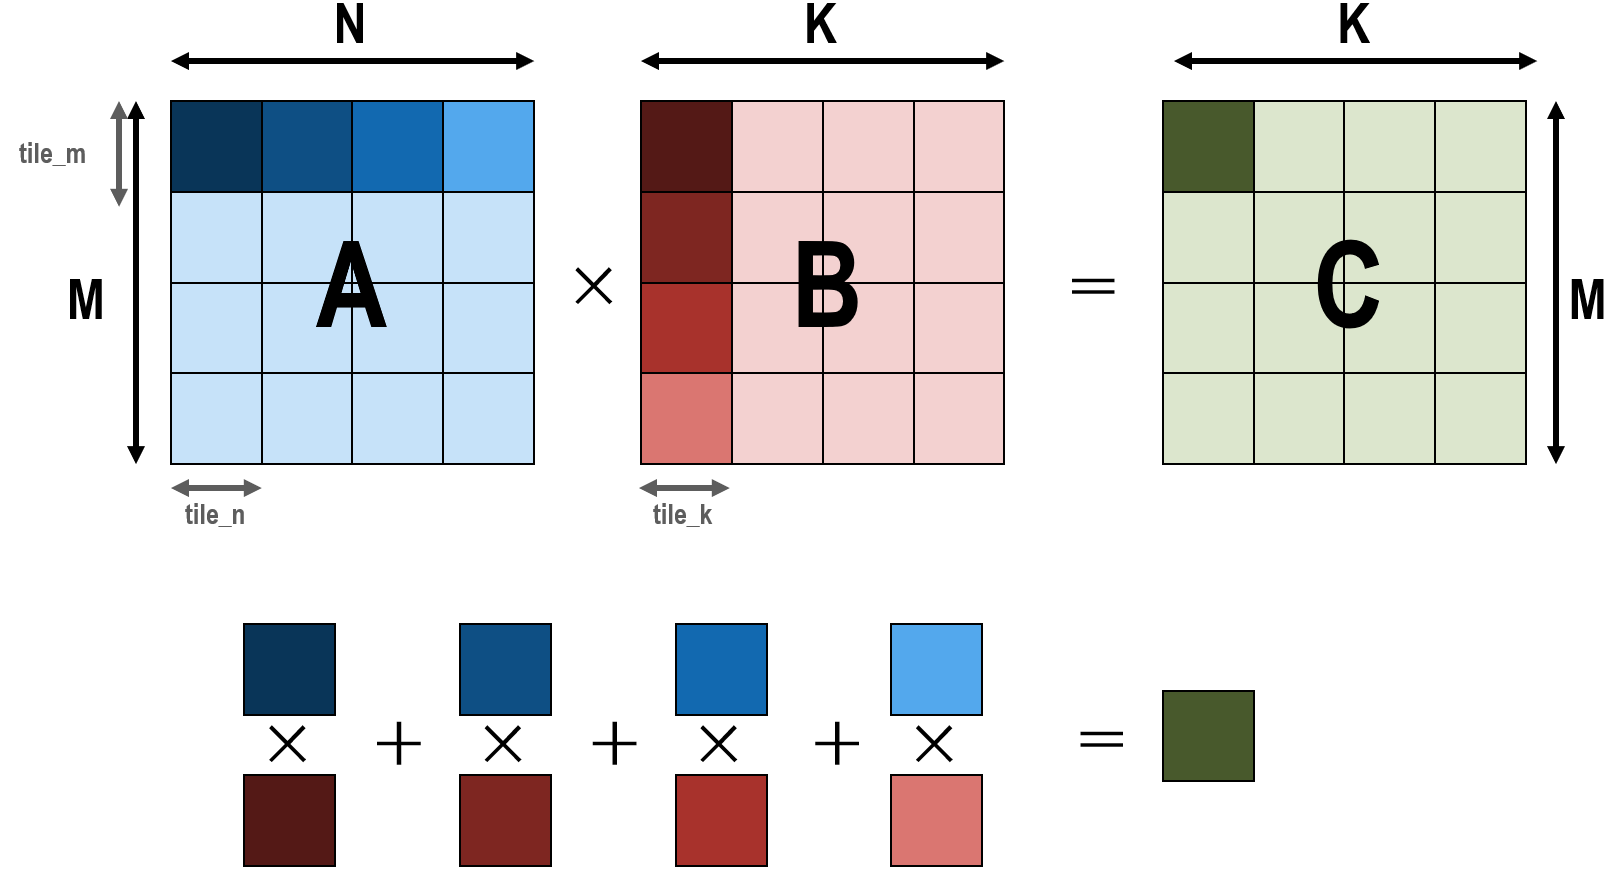
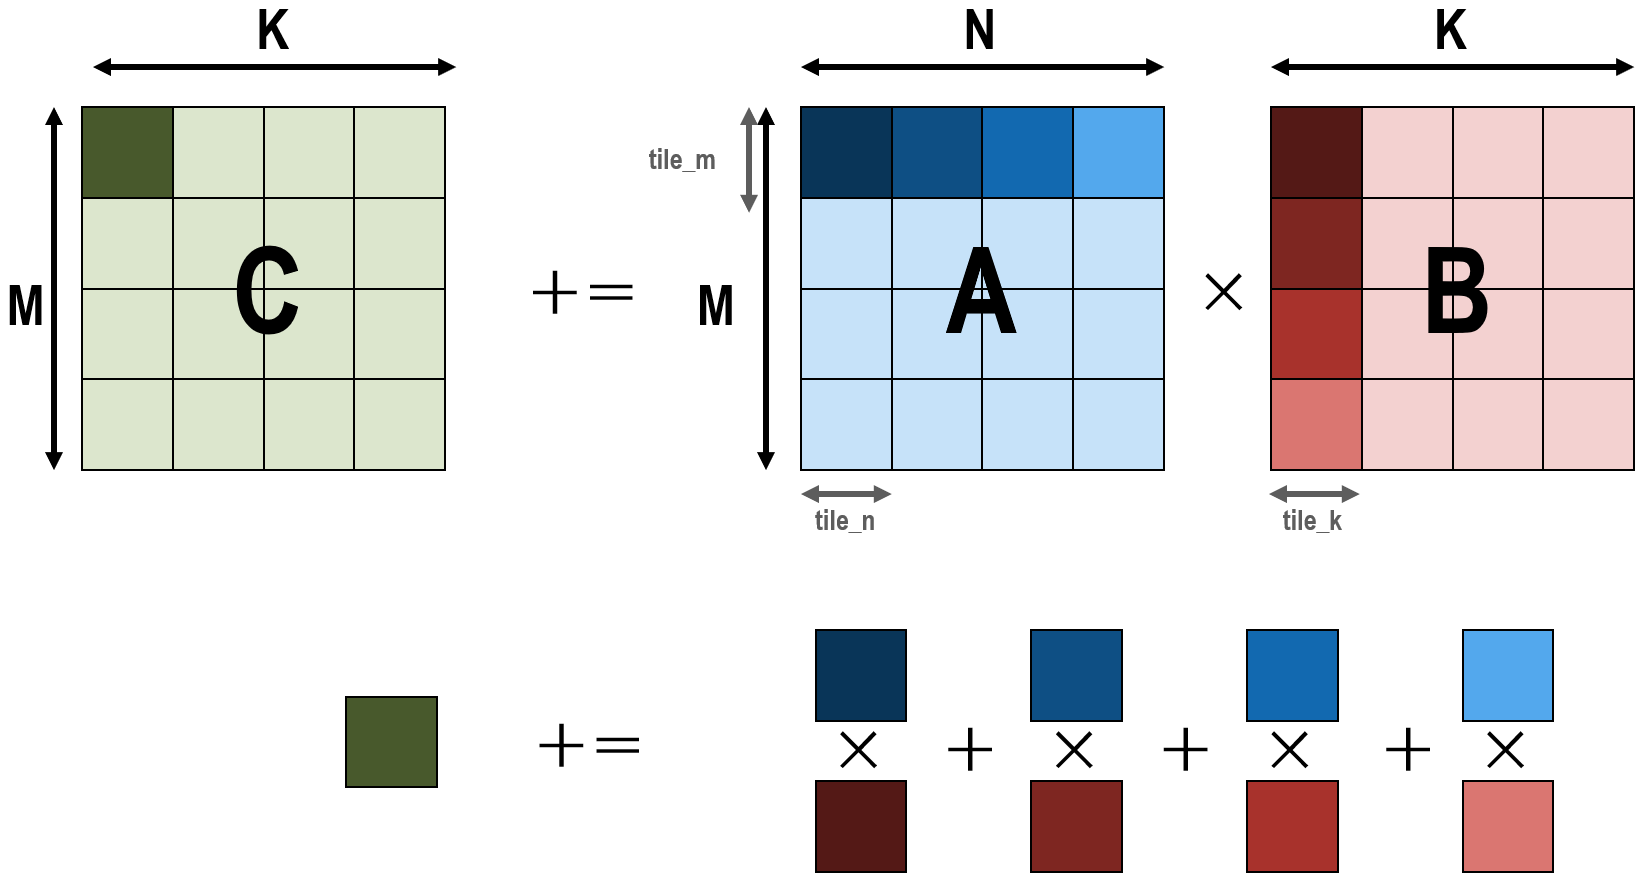
[SoftHier] finish exe

diff --git a/README.md b/README.md
@@ -133,7 +133,7 @@ This infrastructure is one of MLIR's main advantages: building a new compiler di
 
 All materials are located in the `exercise/PartII/` folder. For each individual exercise, navigate to its corresponding subfolder. Use `make run` to execute the SoftHier simulation with the provided code. To generate a trace file, run `make trace`.
 
-To view the generated `.trace` file, open the following URL in your browser:
+To view the generated `trace.pfto` file, open the following URL in your browser:
 👉 [Perfetto UI](https://ui.perfetto.dev/)
 
 In this exercise, the architectural parameters of the SoftHier system are fixed as shown below. The system consists of a 4×4 cluster grid, with each cluster containing two cores: core 0 is attached to the RedMule matrix engine, while core 1 controls DMA for data movement.